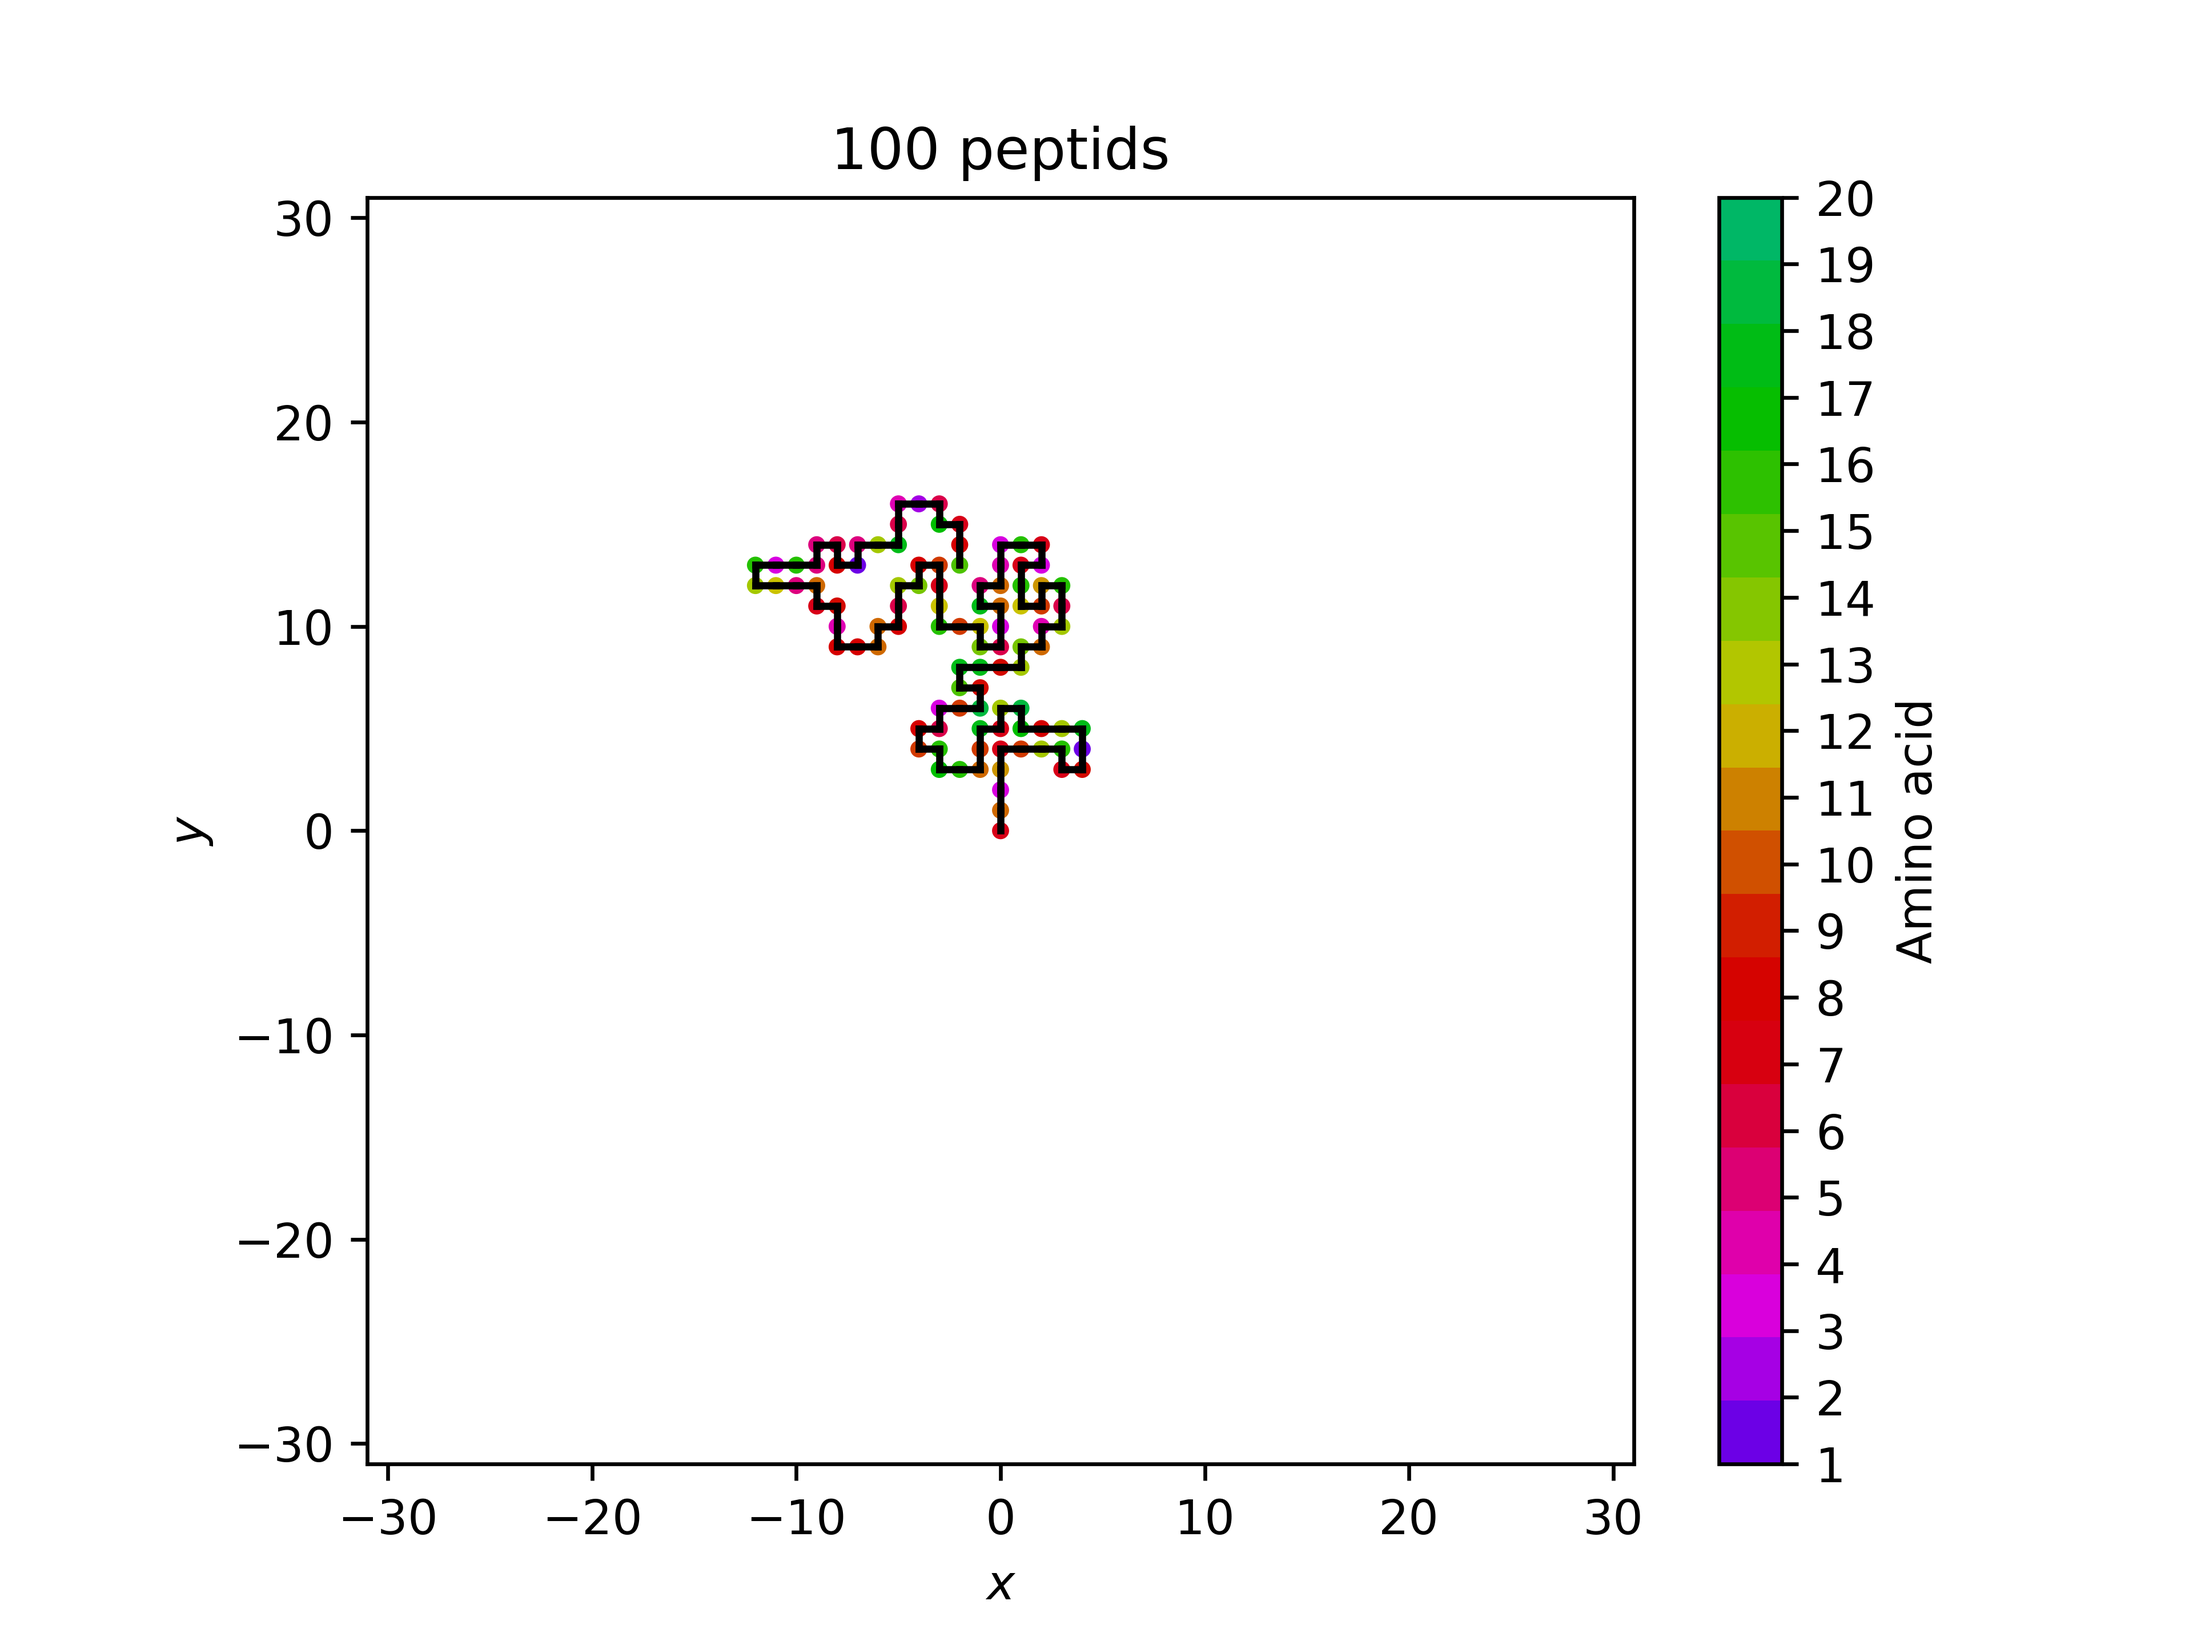
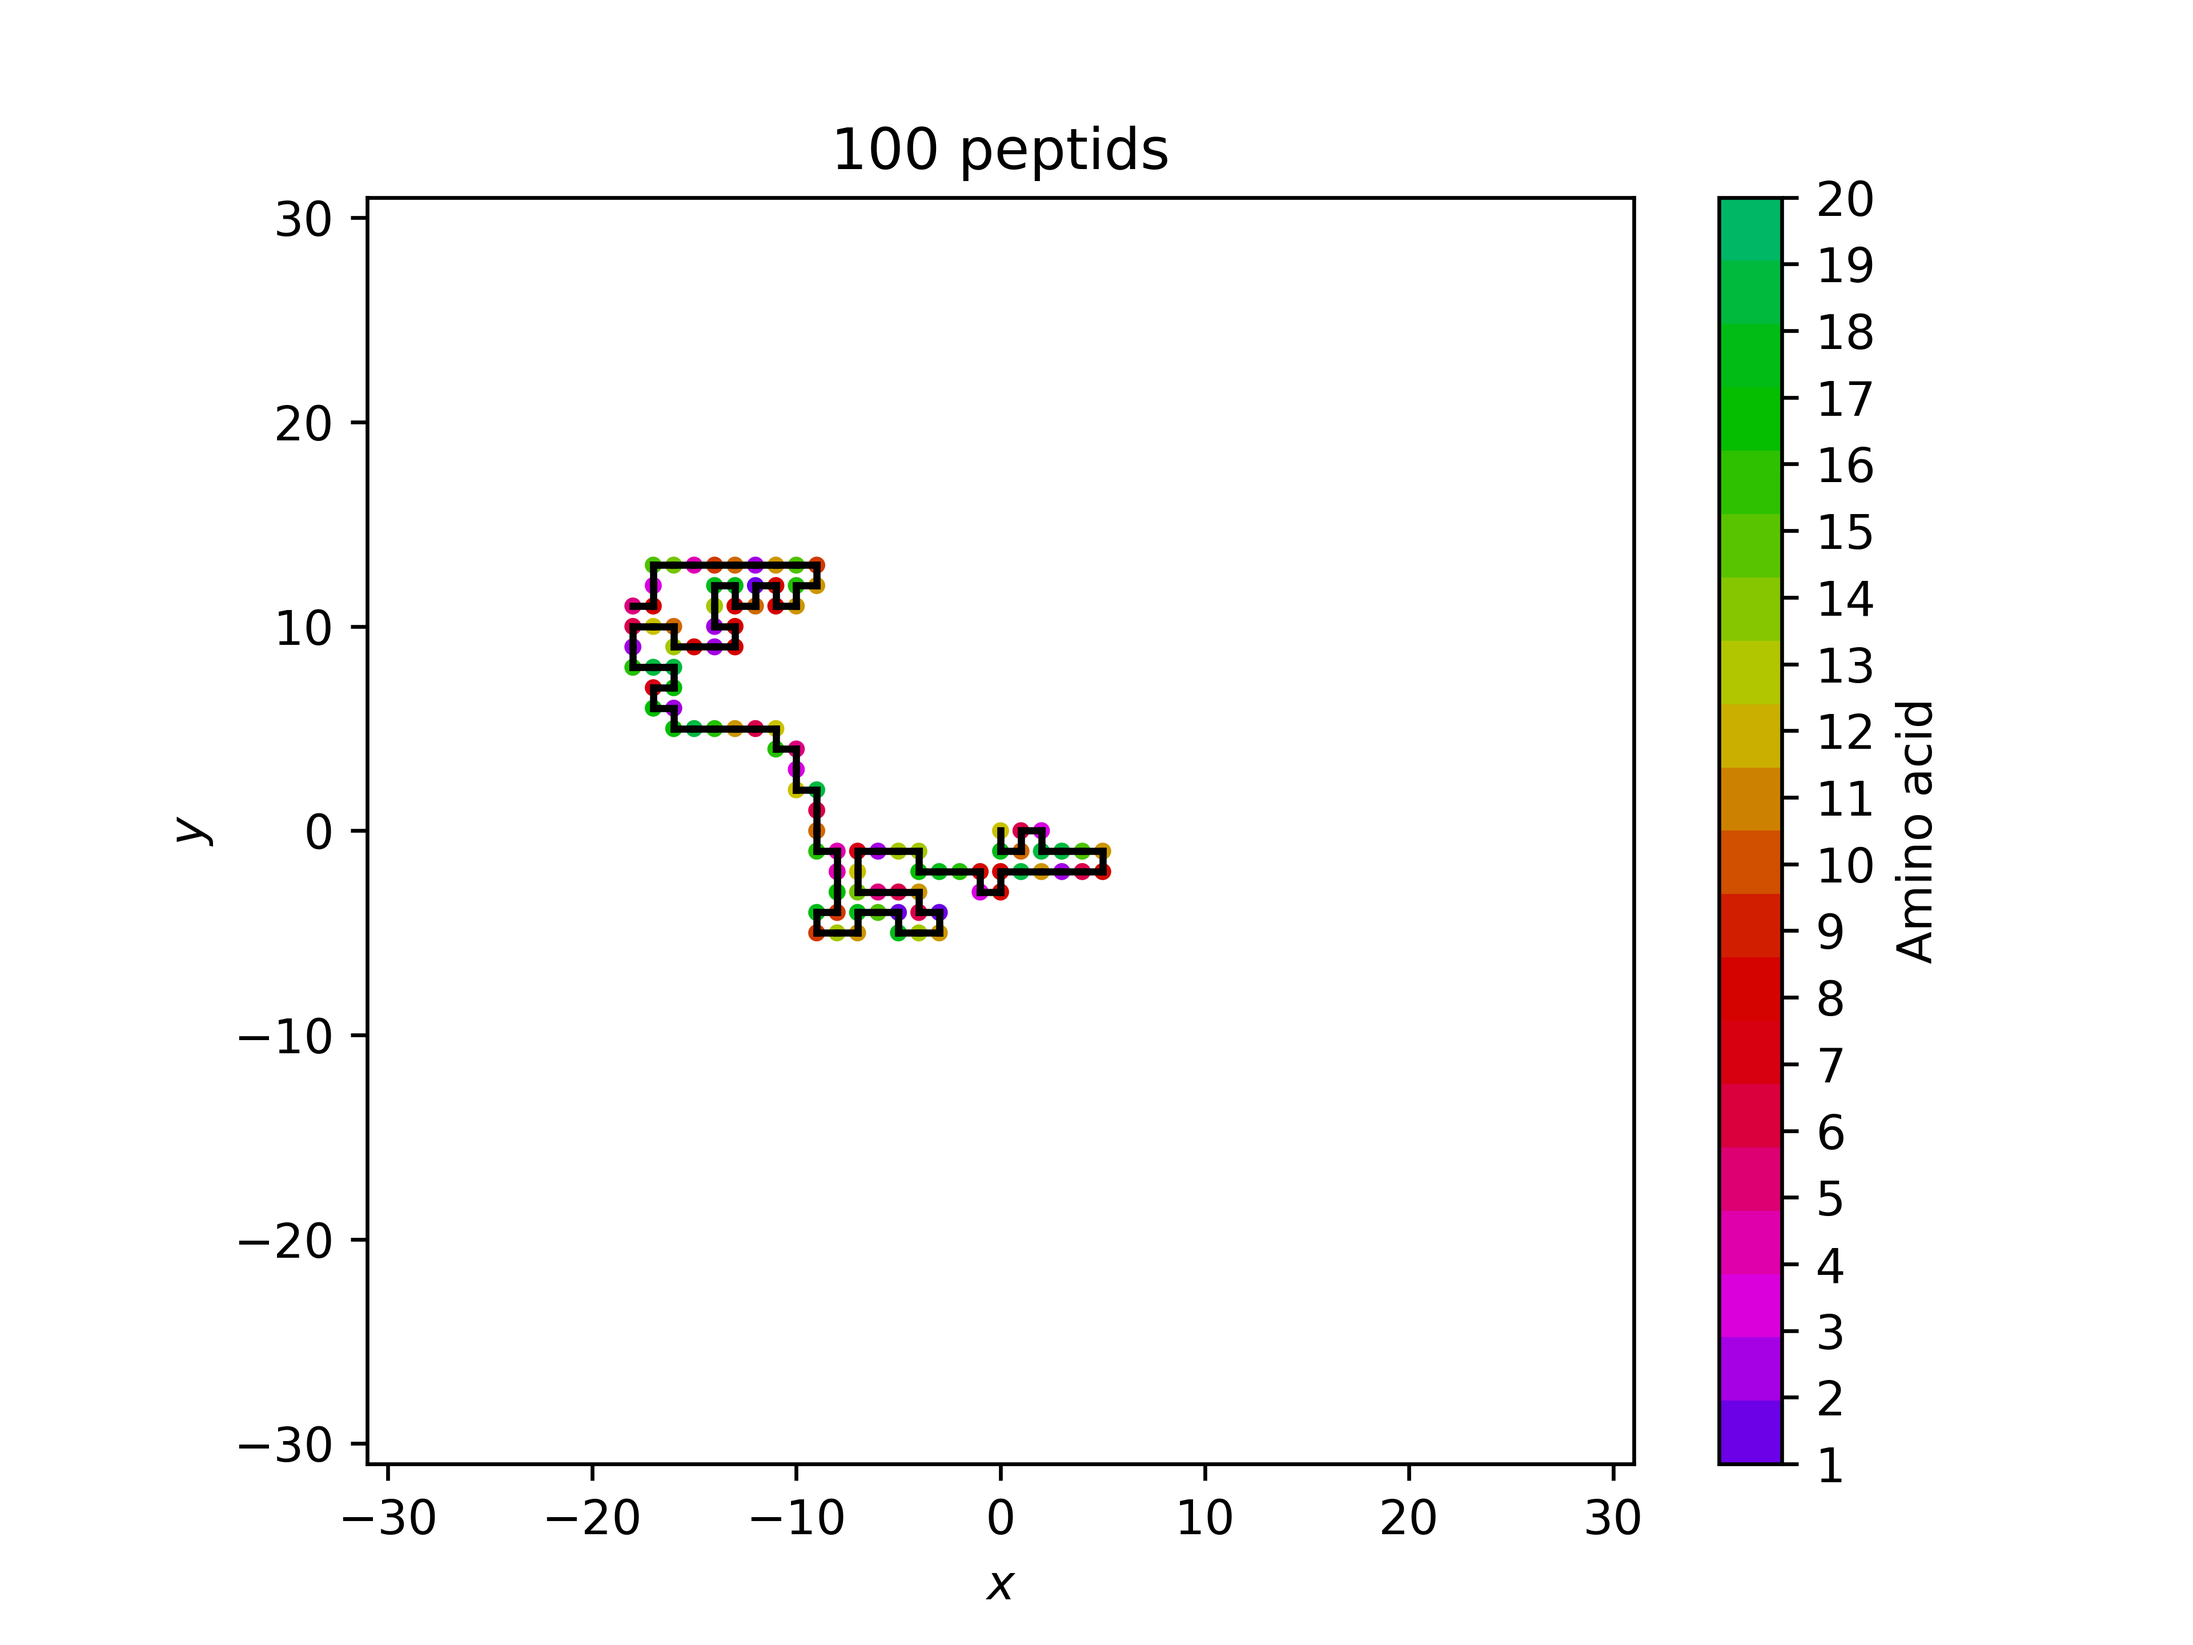
averaged annealing added

Changed region(s): [[0.2812, 0.2812, 0.5312, 0.5938]]

diff --git a/annealing.py b/annealing.py
@@ -60,5 +60,45 @@ def annealing(length, mc_steps, path):
         fig.savefig(path+f"/annealing_energy_l_{length}_steps_{mc_steps}.pdf")
     plt.show()
 
-    return ergs, coord_vec
+def averaged_annealing(length, T_steps, num_at_T, T_i, T_f, path):
+    grid, coord_vec = randomwalk.self_avoiding_walk_protein(length, length)
+    while coord_vec[-1].x == 0: # discard the protein and re-generate if it doesn't have full length
+        grid, coord_vec = randomwalk.self_avoiding_walk_protein(length, length)
+    if path != "":
+        randomwalk.plot_protein(coord_vec, length/3, path+f"/protein_init_l_{length}_steps_{num_at_T*T_steps}_annealing.pdf") # plot initial state
+
+    J = energy.random_exchange_matrix()
+    
+    ergs = np.empty(T_steps, np.double)
+    d_ergs = np.empty(T_steps, np.double)
+
+    if T_f == 0:
+        T_f = 0.01
+    dT = (T_i - T_f)/T_steps
+    T = T_i
+
+    for i in range(T_steps):
+        ergs_at_T = np.empty(num_at_T, np.double)
+        for k in range(num_at_T):
+            grid, coord_vec = energy.monte_carlo_step(grid, coord_vec, J, T) # perform mc steps
+            ergs_at_T[k] = energy.total_erg_per_site(grid, coord_vec, J)
+        ergs[i] = np.mean(ergs_at_T)
+        d_ergs[i] = np.std(ergs_at_T)
+        T -= dT
+
+    if path != "":
+        randomwalk.plot_protein(coord_vec, length/3, path+f"/protein_final_l_{length}_steps_{num_at_T*T_steps}_annealing.pdf") # plot initial state
+    
+    Temps = np.linspace(T_i, T_f, T_steps)
+    fig, ax = plt.subplots()
+    ax.plot(Temps, ergs, label=f"$L={length}$")
+    ax.invert_xaxis()
+    ax.set_xlabel("Temperature $T$")
+    ax.set_ylabel("Total energy $E$")
+    ax.legend()
+    ax.set_title(f"{num_at_T*T_steps} monte carlo steps, $dT={dT}$, {num_at_T} steps per T")
+    if path != "":
+        fig.savefig(path+f"/annealing_energy_avg_{num_at_T}_l_{length}_steps_{num_at_T*T_steps}.pdf")
+
+    return ergs, grid, coord_vec, fig, ax
 

diff --git a/main.py b/main.py
@@ -3,7 +3,7 @@ from numba import set_num_threads
 # adjust this to your preference. at least one less than cpu cores is recommended,
 # since numba code can't easily be interrupted and you might lock up your system if
 # something goes wrong
-set_num_threads(8)
+set_num_threads(11)
 
 # code
 import randomwalk
@@ -15,9 +15,10 @@ import annealing
 def main():
     #energy.eigenvalue_statistics(1000000, "data/eigenvalue_distribution.pdf")
     #randomwalk_statistics.mean_sq_pos_stats_both(10000, 100, 100, "data")
-    #energy.evolve_protein_plot_energy(100, 100000, 1, "data")
+    #energy.evolve_protein_plot_energy(100, 100000, 1, "data", False)
     #energy.animated_monte_carlo(50, 1000, 1, 1, 8, "data")
-    annealing.annealing(30, 1000000, "data")
+    #annealing.annealing(30, 1000000, "data")
+    annealing.averaged_annealing(30, 10000, 1000, 10, 0.01, "data")
 
 if __name__=="__main__":
     main()
